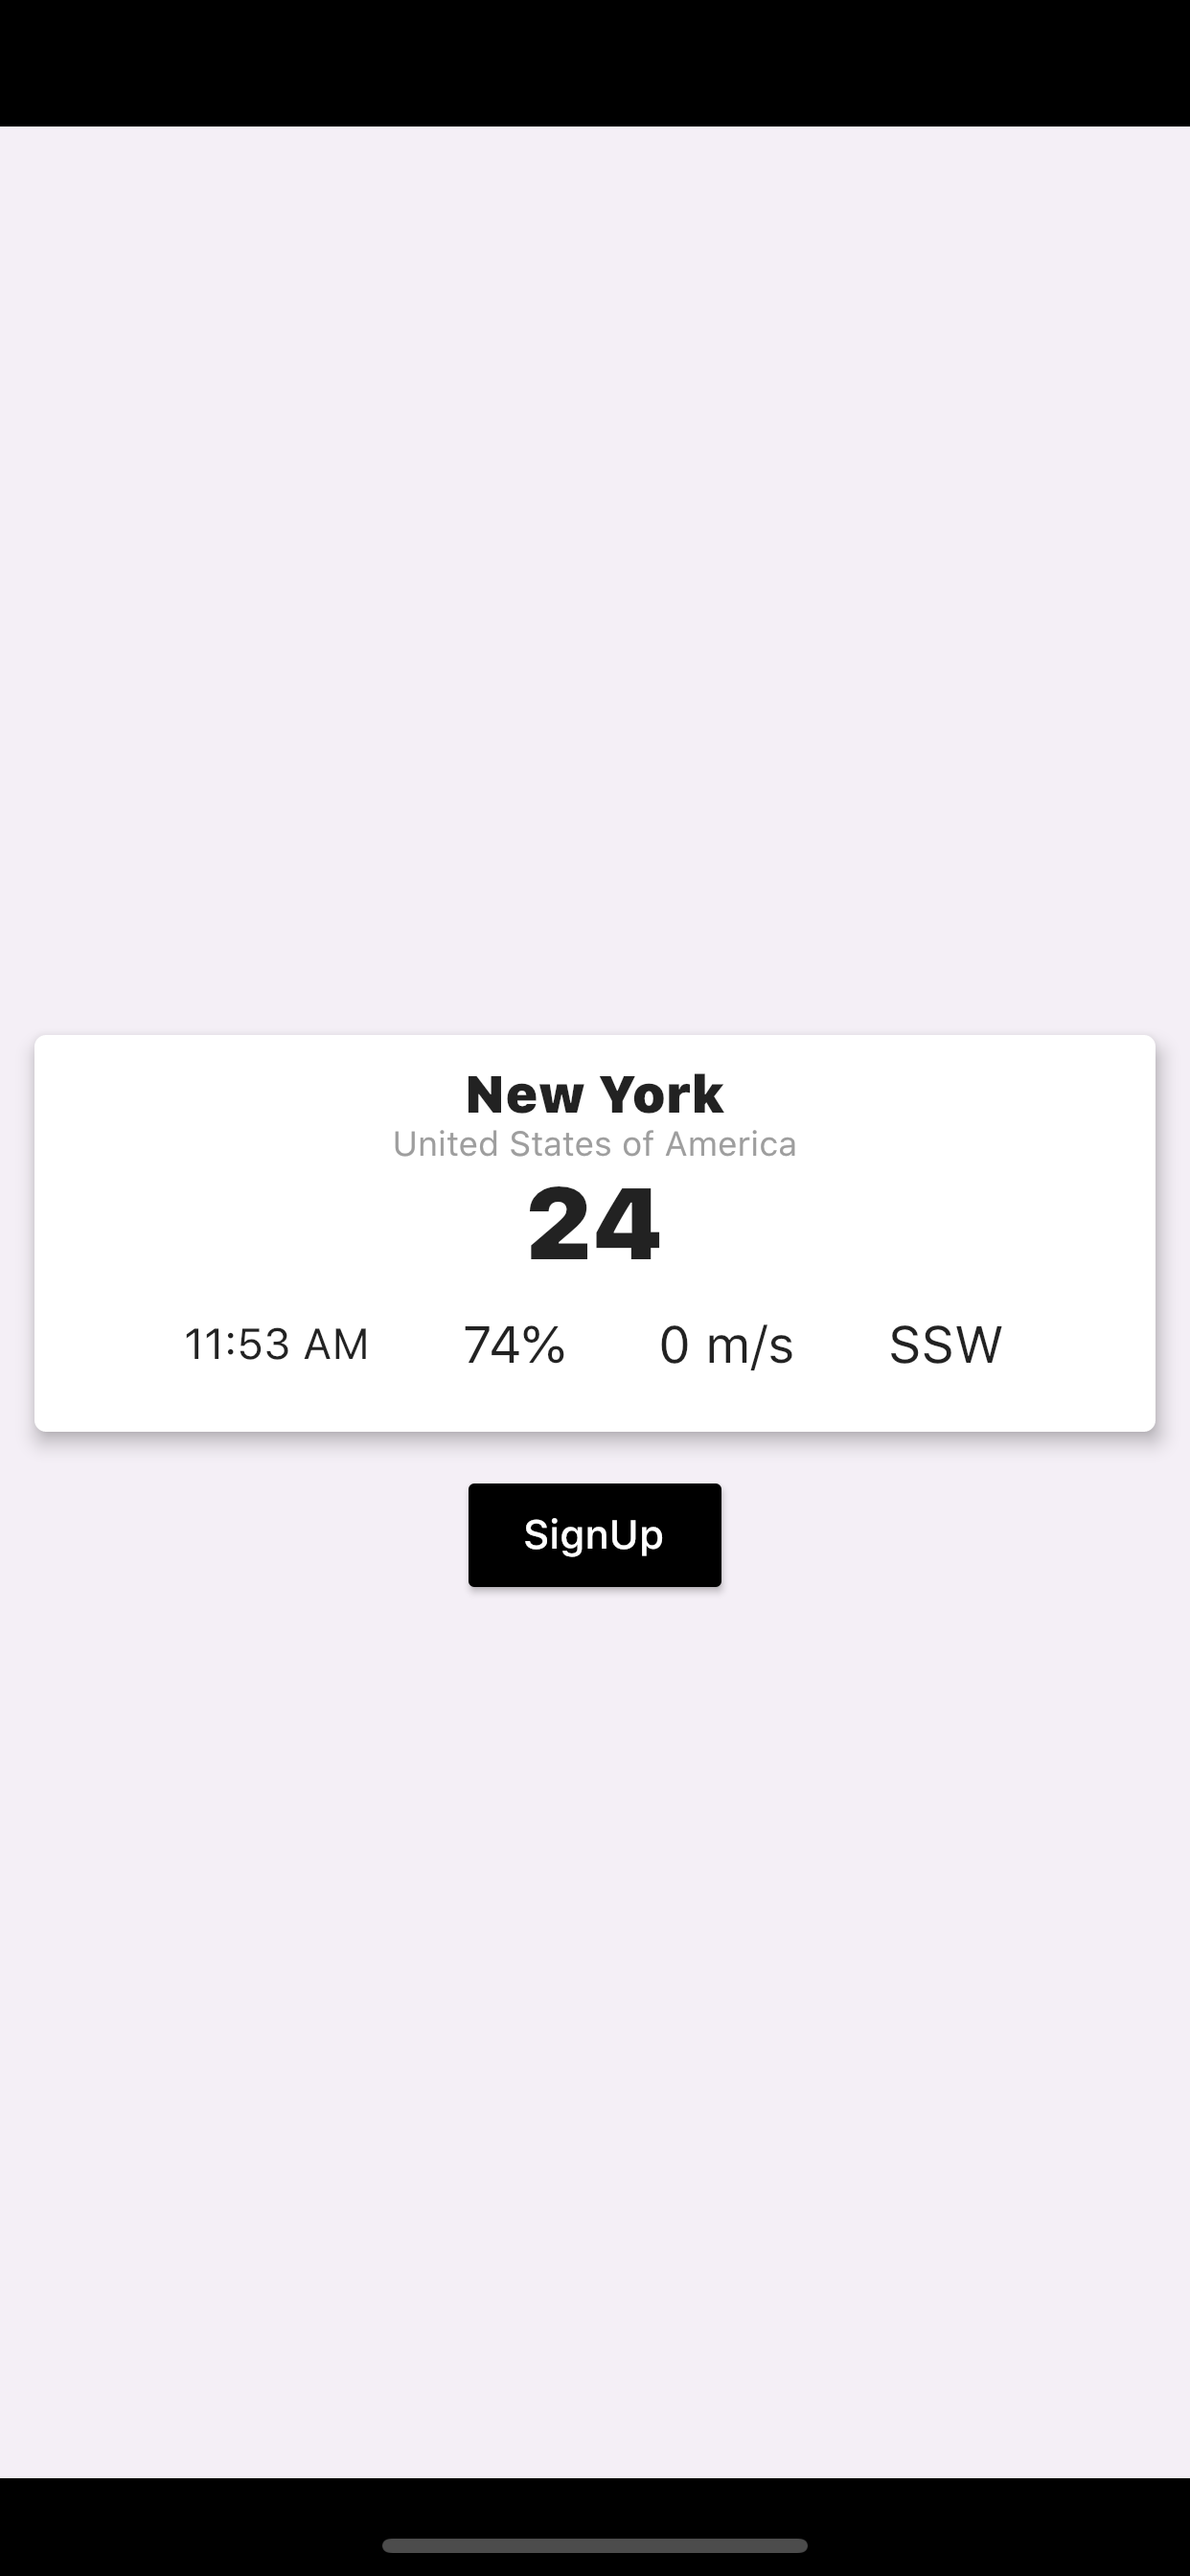
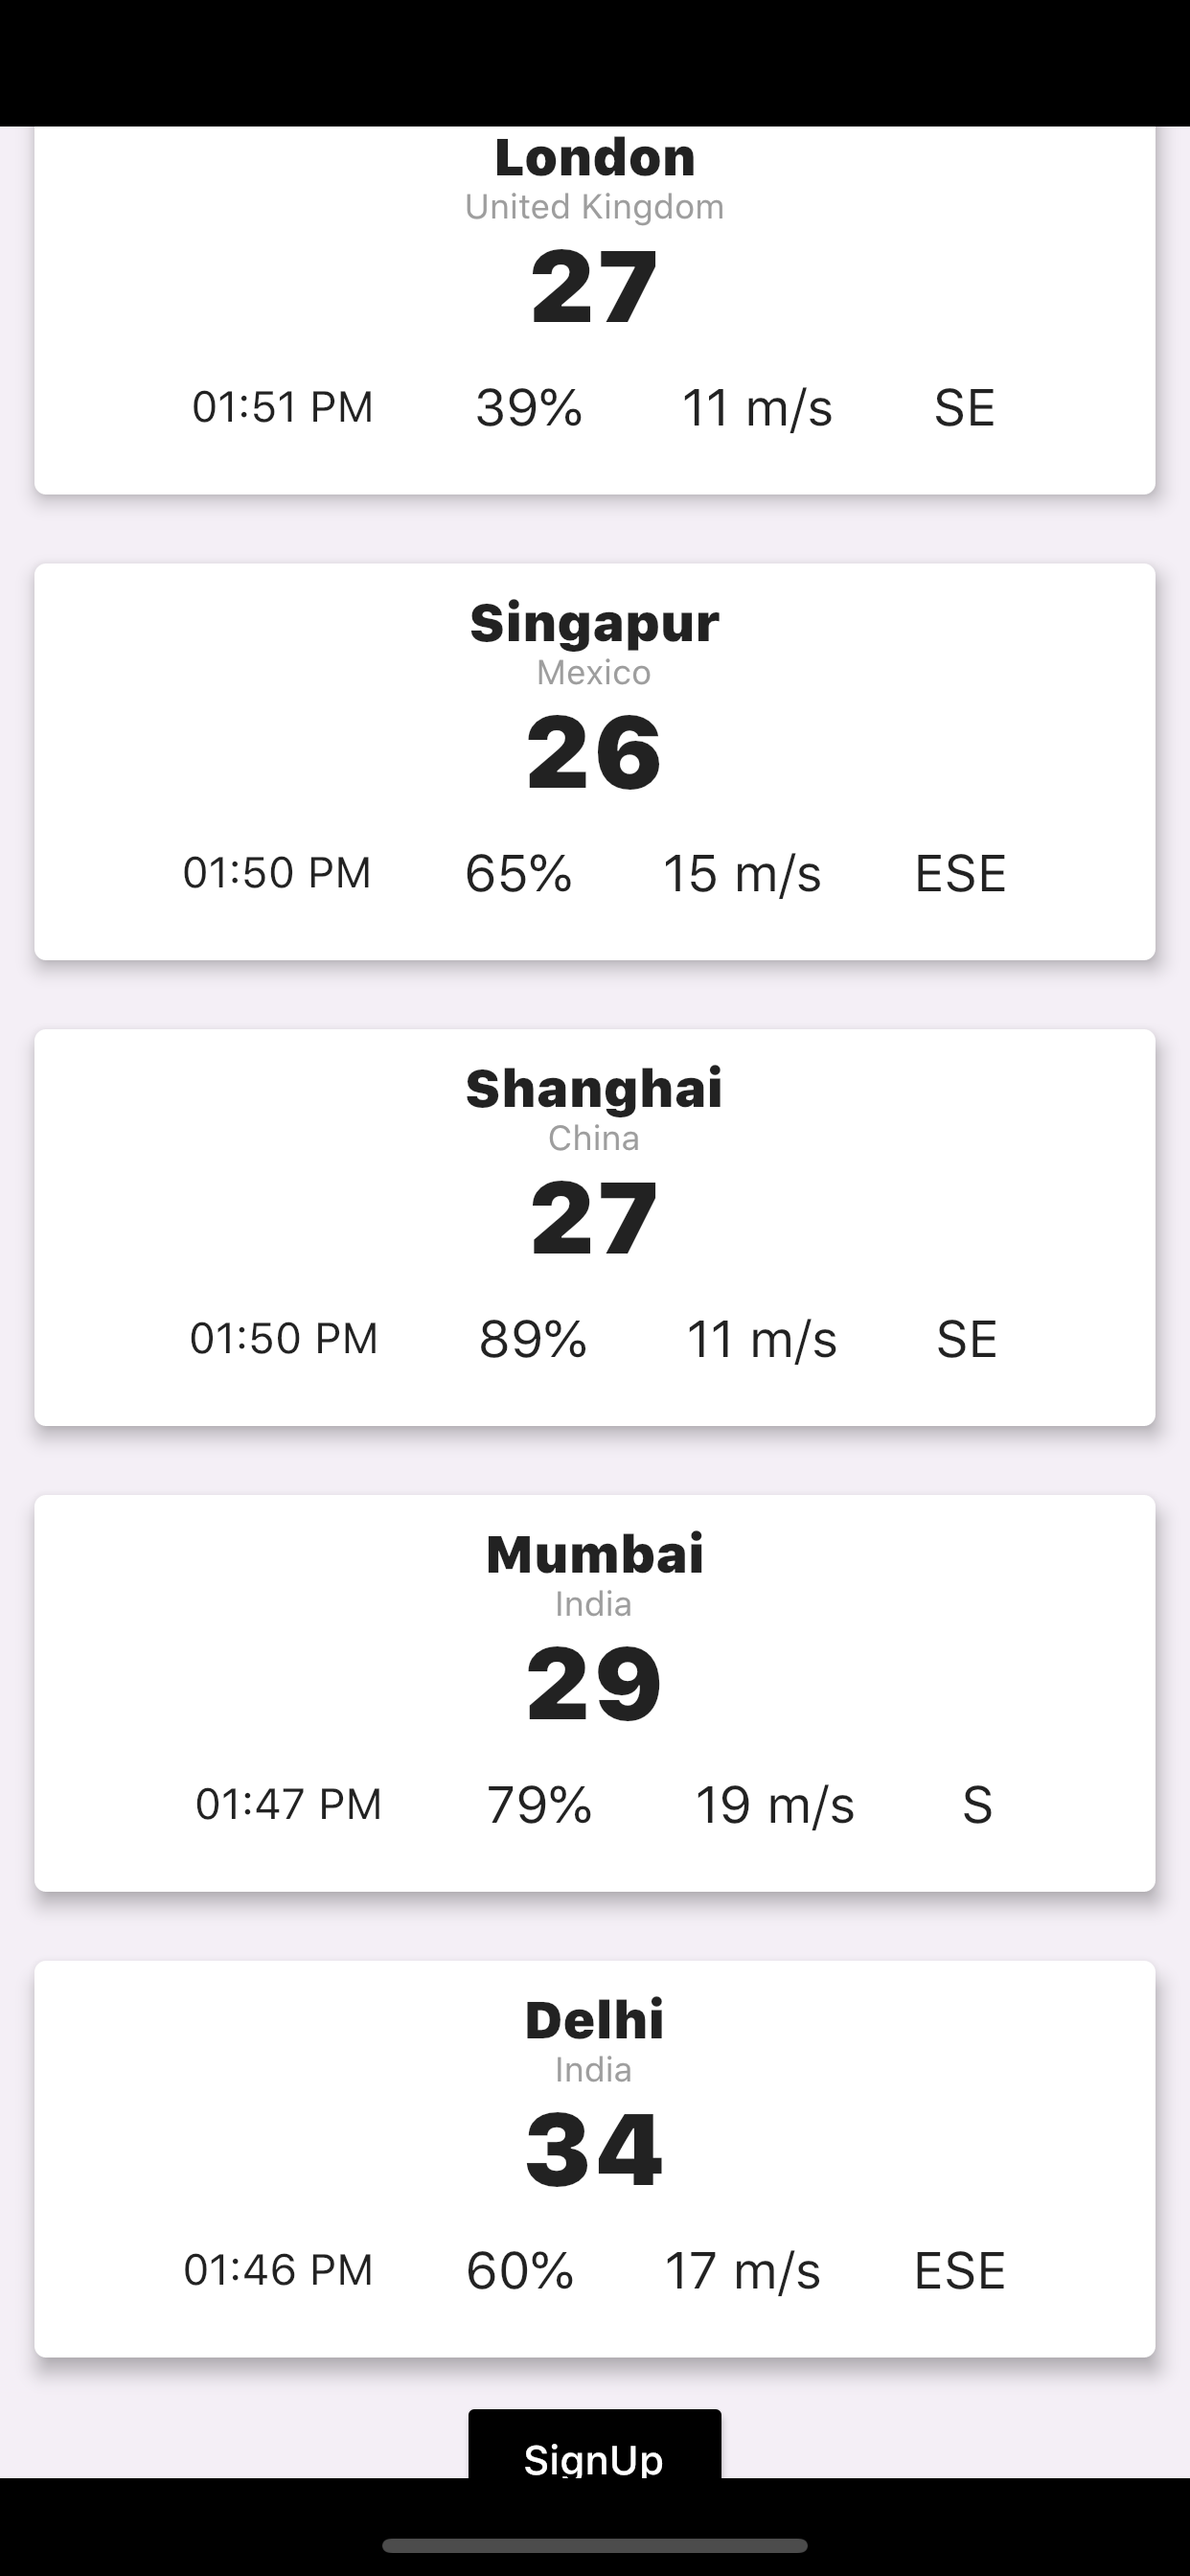
bug fixes

diff --git a/lib/screens/weather.dart b/lib/screens/weather.dart
@@ -14,11 +14,21 @@ class Weather extends StatefulWidget {
 class _WeatherState extends State<Weather> {
   Api _api;
   Future<Weather_model> weather_model;
+  Future<Weather_model> weather_model1;
+  Future<Weather_model> weather_model2;
+  Future<Weather_model> weather_model3;
+  Future<Weather_model> weather_model4;
+  Future<Weather_model> weather_model5;
 
   @override
   void initState() {
     _api = Api();
     weather_model = _api.getWeather();
+    weather_model1 = _api.getWeather1();
+    weather_model2 = _api.getWeather2();
+    weather_model3 = _api.getWeather3();
+    weather_model4 = _api.getWeather4();
+    weather_model5 = _api.getWeather5();
     super.initState();
   }
 
@@ -27,44 +37,151 @@ class _WeatherState extends State<Weather> {
     return SafeArea(
       child: Scaffold(
         backgroundColor: Color(0xFFF4EFF6),
-        body: Column(
-          mainAxisAlignment: MainAxisAlignment.center,
-          crossAxisAlignment: CrossAxisAlignment.center,
-          children: <Widget>[
-            FutureBuilder(
-                future: weather_model,
-                builder: (ctx, snapshot) {
-                  if (snapshot.hasData) {
-                    return Padding(
-                      padding: const EdgeInsets.all(8.0),
-                      child: WeatherCard(
-                        locationName: '${snapshot.data.location.name}',
-                        locationCountry: '${snapshot.data.location.country}',
-                        currentTemp: '${snapshot.data.current.temperature}',
-                        observationTime:
-                            '${snapshot.data.current.observationTime}',
-                        humidity: '${snapshot.data.current.humidity}%',
-                        windSpeed: '${snapshot.data.current.windSpeed} m/s',
-                        windDir: '${snapshot.data.current.windDir}',
-                      ),
-                    );
-                  } else {
-                    return Center(
-                      child: CircularProgressIndicator(),
-                    );
-                  }
-                }),
-            RaisedButton(
-              onPressed: () {
-                Navigator.of(context).pushReplacementNamed(SignUp.routeName);
-              },
-              color: Colors.black,
-              child: Text(
-                'SignUp',
-                style: TextStyle(color: Colors.white),
-              ),
-            )
-          ],
+        body: SingleChildScrollView(
+          child: Column(
+            mainAxisAlignment: MainAxisAlignment.center,
+            crossAxisAlignment: CrossAxisAlignment.center,
+            children: <Widget>[
+              FutureBuilder(
+                  future: weather_model,
+                  builder: (ctx, snapshot) {
+                    if (snapshot.hasData) {
+                      return Padding(
+                        padding: const EdgeInsets.all(8.0),
+                        child: WeatherCard(
+                          locationName: '${snapshot.data.location.name}',
+                          locationCountry: '${snapshot.data.location.country}',
+                          currentTemp: '${snapshot.data.current.temperature}',
+                          observationTime:
+                              '${snapshot.data.current.observationTime}',
+                          humidity: '${snapshot.data.current.humidity}%',
+                          windSpeed: '${snapshot.data.current.windSpeed} m/s',
+                          windDir: '${snapshot.data.current.windDir}',
+                        ),
+                      );
+                    } else {
+                      return Center(
+                        child: CircularProgressIndicator(),
+                      );
+                    }
+                  }),
+              FutureBuilder(
+                  future: weather_model1,
+                  builder: (ctx, snapshot) {
+                    if (snapshot.hasData) {
+                      return Padding(
+                        padding: const EdgeInsets.all(8.0),
+                        child: WeatherCard(
+                          locationName: '${snapshot.data.location.name}',
+                          locationCountry: '${snapshot.data.location.country}',
+                          currentTemp: '${snapshot.data.current.temperature}',
+                          observationTime:
+                              '${snapshot.data.current.observationTime}',
+                          humidity: '${snapshot.data.current.humidity}%',
+                          windSpeed: '${snapshot.data.current.windSpeed} m/s',
+                          windDir: '${snapshot.data.current.windDir}',
+                        ),
+                      );
+                    } else {
+                      return Center();
+                    }
+                  }),
+              FutureBuilder(
+                  future: weather_model2,
+                  builder: (ctx, snapshot) {
+                    if (snapshot.hasData) {
+                      return Padding(
+                        padding: const EdgeInsets.all(8.0),
+                        child: WeatherCard(
+                          locationName: '${snapshot.data.location.name}',
+                          locationCountry: '${snapshot.data.location.country}',
+                          currentTemp: '${snapshot.data.current.temperature}',
+                          observationTime:
+                              '${snapshot.data.current.observationTime}',
+                          humidity: '${snapshot.data.current.humidity}%',
+                          windSpeed: '${snapshot.data.current.windSpeed} m/s',
+                          windDir: '${snapshot.data.current.windDir}',
+                        ),
+                      );
+                    } else {
+                      return Center();
+                    }
+                  }),
+              FutureBuilder(
+                  future: weather_model3,
+                  builder: (ctx, snapshot) {
+                    if (snapshot.hasData) {
+                      return Padding(
+                        padding: const EdgeInsets.all(8.0),
+                        child: WeatherCard(
+                          locationName: '${snapshot.data.location.name}',
+                          locationCountry: '${snapshot.data.location.country}',
+                          currentTemp: '${snapshot.data.current.temperature}',
+                          observationTime:
+                              '${snapshot.data.current.observationTime}',
+                          humidity: '${snapshot.data.current.humidity}%',
+                          windSpeed: '${snapshot.data.current.windSpeed} m/s',
+                          windDir: '${snapshot.data.current.windDir}',
+                        ),
+                      );
+                    } else {
+                      return Center();
+                    }
+                  }),
+              FutureBuilder(
+                  future: weather_model4,
+                  builder: (ctx, snapshot) {
+                    if (snapshot.hasData) {
+                      return Padding(
+                        padding: const EdgeInsets.all(8.0),
+                        child: WeatherCard(
+                          locationName: '${snapshot.data.location.name}',
+                          locationCountry: '${snapshot.data.location.country}',
+                          currentTemp: '${snapshot.data.current.temperature}',
+                          observationTime:
+                              '${snapshot.data.current.observationTime}',
+                          humidity: '${snapshot.data.current.humidity}%',
+                          windSpeed: '${snapshot.data.current.windSpeed} m/s',
+                          windDir: '${snapshot.data.current.windDir}',
+                        ),
+                      );
+                    } else {
+                      return Center();
+                    }
+                  }),
+                  FutureBuilder(
+                  future: weather_model5,
+                  builder: (ctx, snapshot) {
+                    if (snapshot.hasData) {
+                      return Padding(
+                        padding: const EdgeInsets.all(8.0),
+                        child: WeatherCard(
+                          locationName: '${snapshot.data.location.name}',
+                          locationCountry: '${snapshot.data.location.country}',
+                          currentTemp: '${snapshot.data.current.temperature}',
+                          observationTime:
+                              '${snapshot.data.current.observationTime}',
+                          humidity: '${snapshot.data.current.humidity}%',
+                          windSpeed: '${snapshot.data.current.windSpeed} m/s',
+                          windDir: '${snapshot.data.current.windDir}',
+                        ),
+                      );
+                    } else {
+                      return Center();
+                    }
+                  }),
+              RaisedButton(
+                onPressed: () {
+                  Navigator.of(context).pushReplacementNamed(SignUp.routeName);
+                },
+                color: Colors.black,
+                child: Text(
+                  'SignUp',
+                  style: TextStyle(color: Colors.white),
+                ),
+              )
+            ],
+          ),
         ),
       ),
     );

diff --git a/lib/api.dart b/lib/api.dart
@@ -16,4 +16,44 @@ class Api {
       throw Exception('Failed to load');
     }
   }
+  Future<Weather_model> getWeather1() async {
+    final response = await http.get('$url?access_key=$apiKey&query=london');
+    if (response.statusCode == 200) {
+      return Weather_model.fromJson(json.decode(response.body));
+    } else {
+      throw Exception('Failed to load');
+    }
+  }
+  Future<Weather_model> getWeather2() async {
+    final response = await http.get('$url?access_key=$apiKey&query=Singapur');
+    if (response.statusCode == 200) {
+      return Weather_model.fromJson(json.decode(response.body));
+    } else {
+      throw Exception('Failed to load');
+    }
+  }
+  Future<Weather_model> getWeather3() async {
+    final response = await http.get('$url?access_key=$apiKey&query=Shanghai');
+    if (response.statusCode == 200) {
+      return Weather_model.fromJson(json.decode(response.body));
+    } else {
+      throw Exception('Failed to load');
+    }
+  }
+  Future<Weather_model> getWeather4() async {
+    final response = await http.get('$url?access_key=$apiKey&query=Mumbai');
+    if (response.statusCode == 200) {
+      return Weather_model.fromJson(json.decode(response.body));
+    } else {
+      throw Exception('Failed to load');
+    }
+  }
+  Future<Weather_model> getWeather5() async {
+    final response = await http.get('$url?access_key=$apiKey&query=Delhi');
+    if (response.statusCode == 200) {
+      return Weather_model.fromJson(json.decode(response.body));
+    } else {
+      throw Exception('Failed to load');
+    }
+  }
 }
